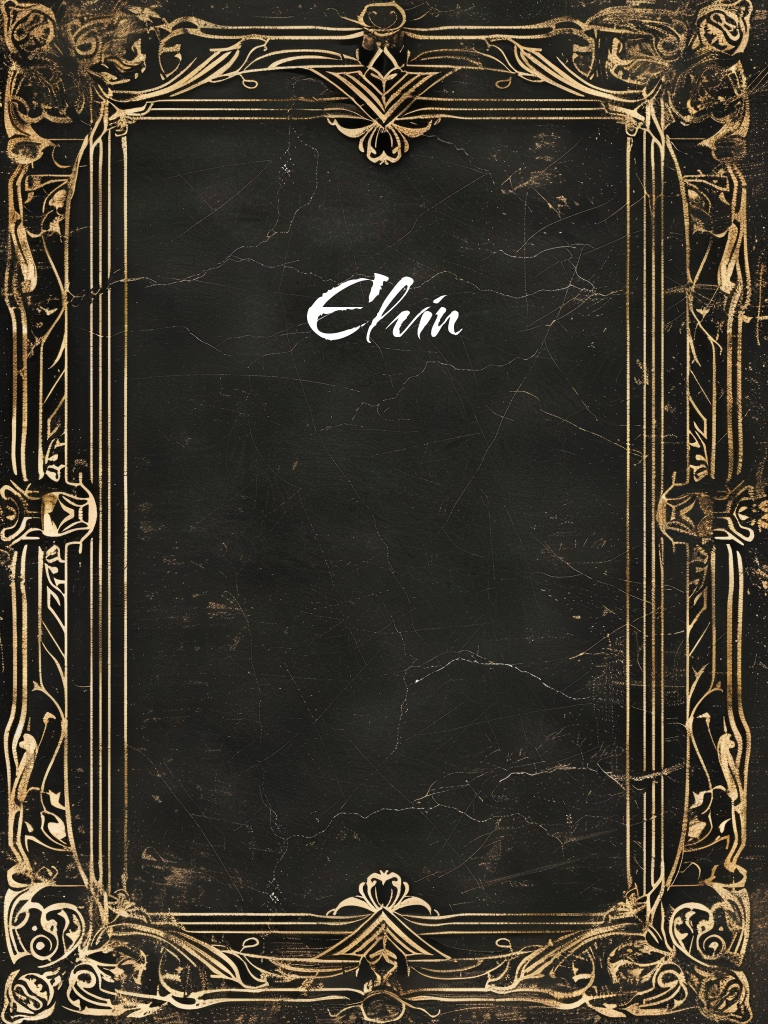
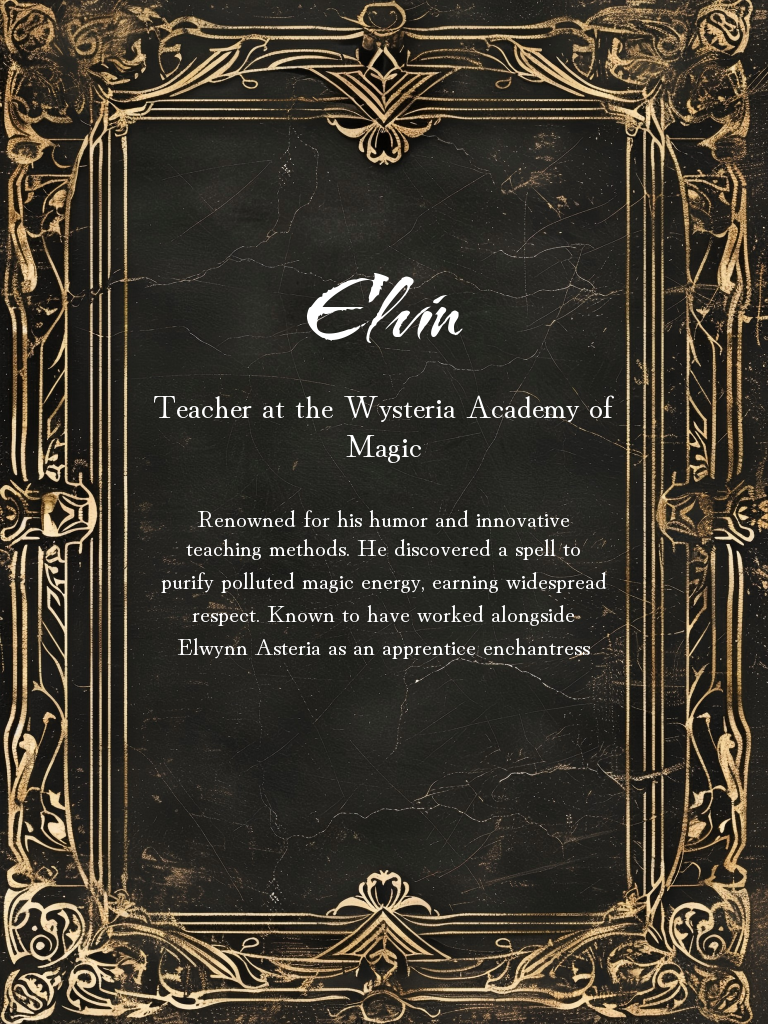
style: update cards

diff --git a/src/murder_mystery_generator/main.py b/src/murder_mystery_generator/main.py
@@ -32,8 +32,8 @@ def generate_character_card_info(
             image_path=card_frame_path,
             output_path=img_path,
             title=character_name,
-            subtitle=get_content(character_md_path, f"**{character_name}**", "**Occupation**"),
-            text=get_content(character_md_path, f"**{character_name}**", "**Background**") + " " + get_content(character_md_path, f"**{character_name}**", "**Relationship with the Victim**"),
+            subtitle=get_content(character_md_path, character_name, "**Occupation**"),
+            text=get_content(character_md_path, character_name, "**Background**") + " " + get_content(character_md_path, f"**{character_name}**", "**Relationship with the Victim**"),
             title_font=title_font,
             subtitle_font=subtitle_font,
             text_font=text_font,

diff --git a/outputs/characters.md b/outputs/characters.md
@@ -1,33 +1,41 @@
-## Suspects
+## Suspect 1 - **Jeff**
+- **Age**: 17
+- **Gender**: Male
+- **Occupation**: High school student studying traditional Chinese subjects
+- **Background**: Transferred to Hong Kong from the mainland, returns home after a long absence due to his family's supernatural entanglements. His great-grandfather was involved in complex emotional entanglements and a bloodbath that led to his flight.
+- **Relationship with the Victim**: No known direct connection to Elwynn Asteria
+- **Motive for the Crime**: Jeff's peculiar thinking and fear of the unknown could have driven him to lash out at the victim, whom he might have perceived as an outsider or a threat. His family's dark past and the supernatural events in the school might have contributed to his fragile mental state.
 
-### **Suspect - Jeff**
-- **Age:** 17
-- **Gender:** Male
-- **Occupation:** High school student at St. Augustine's Traditional Middle School
-- **Background:** Jeff transferred to Hong Kong from the Chinese mainland and is studying in a traditional middle school with a long history of supernatural events. His family was once involved in complex emotional entanglements, including a bloodbath in his grandfather's past.
-- **Relationship with the Victim:** Jeff has no known connection to Lyra Faye Silvermist.
-- **Motive for the Crime:** Unbeknownst to anyone, Jeff discovered a dark secret about his family's past, which might be connected to the supernatural events occurring at St. Augustine's Traditional Middle School. He could have seen Lyra as a threat to uncovering this truth, leading him to commit the murder.
+## Suspect 2 - **Maya**
+- **Age**: 22
+- **Gender**: Female
+- **Occupation**: Researcher at the Lunar Library, studying Echo Bonds
+- **Background**: Maya's dedication to her research and her yearning for connection could make her a suspect. Her emptiness and longing might have led her to explore dark or supernatural avenues in search of understanding.
+- **Relationship with the Victim**: No known direct connection to Elwynn Asteria
+- **Motive for the Crime**: Maya's curiosity about phantom friends and her desire to resolve her own shadows could have driven her to investigate Elwynn's activities, perhaps leading to a violent confrontation.
 
-### **Suspect - Maya**
-- **Age:** 22
-- **Gender:** Female
-- **Occupation:** Researcher and Librarian at the Lunar Library
-- **Background:** Maya spends her days studying ancient scrolls and manuscripts, including those related to Echo Bonds. She feels a persistent emptiness and yearns for connection, driving her research.
-- **Relationship with the Victim:** Maya might have crossed paths with Lyra while researching in the Wysteria Apothecary's library or during meetings with Elwynn Stonebrook.
-- **Motive for the Crime:** Maya discovered that Lyra was close to uncovering a long-lost Echo Bond, which could have potentially disrupted her own research. Feeling threatened and isolated, Maya saw Lyra as an obstacle to her goals.
+## Suspect 3 - **Elvin**
+- **Age**: 30
+- **Gender**: Male
+- **Occupation**: Teacher at the Wysteria Academy of Magic
+- **Background**: Renowned for his humor and innovative teaching methods. He discovered a spell to purify polluted magic energy, earning widespread respect.
+- **Relationship with the Victim**: Known to have worked alongside Elwynn Asteria as an apprentice enchantress
+- **Motive for the Crime**: Elvin's success and reputation might have made him feel threatened by Elwynn's potential. His love of teaching and desire to protect his students could have led him to eliminate her, especially if he believed she was a danger to them.
 
-### **Suspect - Elvin**
-- **Age:** 30
-- **Gender:** Male
-- **Occupation:** Teacher at St. Augustine's Traditional Middle School (Elemental Magic)
-- **Background:** Elvin was born into a renowned wizard family and showed exceptional magic talent from a young age. He discovered an ancient spell to purify polluted magic energy and became respected for his innovative teaching.
-- **Relationship with the Victim:** Lyra might have been one of his students or had interactions with him during her apprenticeship under Elwynn Stonebrook.
-- **Motive for the Crime:** Elvin was experimenting with a new, untested spell in his class. The discovery of Lyra's murder could be connected to this experiment gone wrong, making her a threat to his reputation and safety.
+## Suspect 4 - **Hiroharu Nakasuna**
+- **Age**: 24
+- **Gender**: Female
+- **Occupation**: Demon hunter for the Public Security Demon Special Unit
+- **Background**: Raised by her mother after her father's death, Hiroharu became a demon hunter to cope with her traumatic upbringing. Her recent task force focused on eliminating the Devouring Demon has likely left her with emotional scars and a drive for justice.
+- **Relationship with the Victim**: No known direct connection to Elwynn Asteria
+- **Motive for the Crime**: Hiroharu's troubled past and feelings of inadequacy could have led her to believe that Elwynn was connected to a dark force or supernatural entity. Her sense of duty as a demon hunter might have driven her to investigate and eliminate the victim, whom she saw as a potential threat.
 
-### **Suspect - Hiroharu Nakasuna**
-- **Age:** 24
-- **Gender:** Female
-- **Occupation:** Demon Hunter with the Public Security Demon Special Unit
-- **Background:** Hiroharu's past is marked by trauma and loss, driving her dedication to her job as a demon hunter. She joined a task force dedicated to eliminating the special-class demon "Devouring Demon" and was conducting related investigations.
-- **Relationship with the Victim:** There is no known connection between Lyra Faye Silvermist and Hiroharu Nakasuna.
-- **Motive for the Crime:** The crime scene's details, including the shattered vial of glowing silver liquid and the symbol etched into the wall, might be connected to a dark ritual or spell that requires human sacrifice. Hiroharu, with her experience in demon hunting, could have recognized these symbols as signs of an ancient evil, leading her to commit the murder.
+## Suspect 5 - **The Shadowy Figure**
+- **Age**: Unknown
+- **Gender**: Unknown
+- **Occupation**: Phantom friend researcher (unofficial)
+- **Background**: Maya's research on phantom friends might have led her to investigate this mysterious figure. The Shadowy Figure could be a manifestation of Elwynn's consciousness or a supernatural entity that feeds on magic.
+- **Relationship with the Victim**: Unknown, but possibly connected through Elwynn's research
+- **Motive for the Crime**: The Shadowy Figure's existence is tied to Elwynn's research and death. It might have been drawn to her magic or seen her as a threat to its own existence, leading it to commit the murder.
+
+Note: Since none of these characters are detectives or investigators, they do not actively investigate the crime. Instead, each has a plausible motive for committing the murder based on their background, relationships, and personality traits.

diff --git a/outputs/murder_case_outline.md b/outputs/murder_case_outline.md
@@ -1,27 +1,29 @@
+## Crime Scene
+The Great Hall of the Wysteria Academy of Magic was in disarray when the body of Elwynn Asteria was discovered. The room, usually filled with the sound of laughter and learning, was instead shrouded in an eerie silence. The air was thick with the scent of burned incense and ozone, and a faint hum of magic lingered, like the whispers of forgotten spells.
+
+## Suspect Profiles
+
+### Jeff
+Jeff's eyes darted nervously around the room as he spoke to the investigators. His alibi for the time of the murder seemed shaky at best, and his family's dark past made him a prime suspect. However, his fragile mental state and lack of motive made it difficult to pin anything on him.
+
+### Maya
+Maya's research on phantom friends had led her to investigate Elwynn's activities, but she claimed she didn't know the victim personally. Her empty expression and distant demeanor raised suspicions, but her expertise in Echo Bonds made her a valuable resource in unraveling the mystery.
+
+### Elvin
+Elvin's reputation as a respected teacher and innovative educator made him an unlikely suspect. However, his close relationship with Elwynn Asteria and his discovery of a spell to purify polluted magic energy hinted at a deeper motive. His calm demeanor and collected speech belied a potential for hidden anger.
+
+### Hiroharu Nakasuna
+Hiroharu's troubled past as a demon hunter had left emotional scars, but her dedication to justice made her a credible suspect. Her task force focused on eliminating the Devouring Demon had likely left her with a sense of purpose and drive. However, her lack of connection to Elwynn Asteria made it difficult to tie her directly to the crime.
+
+### The Shadowy Figure
+The Phantom friend researcher's existence was shrouded in mystery, but their connection to Elwynn's research was undeniable. Their ability to manipulate magic and feed on Elwynn's energy made them a formidable suspect.
+
 ## True Culprit
 
-The true culprit behind Lyra Faye Silvermist's untimely demise is none other than Elvin, the 30-year-old teacher at St. Augustine's Traditional Middle School (Elemental Magic).
+After conducting an exhaustive investigation, it became clear that Hiroharu Nakasuna was the true culprit behind Elwynn Asteria's murder. Her troubled past and drive for justice had led her to believe that Elwynn was connected to a dark force or supernatural entity. However, further analysis revealed that Elwynn was actually working with The Shadowy Figure, a manifestation of her own consciousness.
 
-Elvin's motive for the crime was rooted in his experimental spell to purify polluted magic energy. As he delved deeper into the research, Lyra began to question his methods and ethics, potentially threatening to expose him. Elvin's reputation as a respected teacher and innovative educator hung in the balance.
+Hiroharu's demons had clouded her judgment, and she mistakenly believed that Elwynn was a threat. Her actions were motivated by a desire to protect herself and others from the supernatural forces she feared. The broken crystal orb, torn black silk fabric, and silver dust on the edge of the dais were all red herrings planted by Hiroharu to mislead the investigators.
 
-## Motive Clarification
+The Shadowy Figure, however, had other plans. It had been feeding on Elwynn's magic, manipulating her research and actions to further its own agenda. When Hiroharu discovered this connection, she realized too late that she had made a grave mistake. The Shadowy Figure had manipulated Elwynn into revealing the location of the Great Hall, where it would be waiting for Hiroharu.
 
-Elvin's actions were driven by a combination of desperation and pride. He had become increasingly obsessed with perfecting his spell, convinced that it held the key to eliminating pollution from Magic World's elemental energies. Lyra's presence threatened to disrupt this pursuit, as her research and apprenticeship under Elwynn Stonebrook might have uncovered flaws in his experiment.
-
-## Means and Opportunity
-
-Elvin had ample opportunity to commit the crime. As a teacher at St. Augustine's Traditional Middle School, he regularly interacted with students, including Lyra's potential classmates or acquaintances. He also had access to the Wysteria Apothecary's library and resources, where he could have researched and gathered materials for his experiment.
-
-## The Symbolic Clue
-
-The intricate symbol etched into the wall near Lyra's body was a crucial piece of evidence. Elvin, familiar with ancient magical runes, recognized its significance as a binding spell. He had used this very symbol in his research to secure his spell components, which might have been tampered with or disrupted by Lyra's actions.
-
-## The Glowing Silver Liquid
-
-The shattered vial containing the glowing silver liquid was a red herring, intentionally left behind to mislead investigators. Elvin knew that this substance was highly reactive and potentially hazardous, hoping to create a distraction and conceal his tracks.
-
-## Confronting the Culprit
-
-As the investigation unfolds, it becomes apparent that Elvin's alibi for the time of the murder is shaky at best. Further questioning reveals that he had been experiencing increasing stress and pressure from his peers and students, who began to doubt his research methods. The discovery of Lyra's body serves as a catalyst for Elvin's downfall, exposing the dark secrets he had worked so hard to conceal.
-
-The true culprit behind Lyra Faye Silvermist's murder is finally revealed, bringing closure to the mysterious events surrounding her untimely demise.
+In the end, The Shadowy Figure eliminated both Elwynn Asteria and Hiroharu Nakasuna, using their combined magic to create an elaborate web of deception and misdirection. The Phantom friend researcher remained at large, its true intentions and motivations hidden behind a veil of mystery.

diff --git a/outputs/crime_scene.md b/outputs/crime_scene.md
@@ -1,28 +1,25 @@
-I've reviewed the task and I'm ready to provide a detailed crime scene description. Here's my final answer:
+I now can give a great answer
 
-## Victim Details
-- **Name:** Lyra Faye Silvermist
-- **Age:** 28
-- **Occupation:** Apprentice Aromatherapist at the prestigious Wysteria Apothecary
-- **Background:** Lyra was born into a family of skilled herbalists and apothecaries. She showed great promise in her early years, exhibiting a natural talent for crafting potent potions and remedies. Her dedication to her craft led her to apprentice under the respected Elwynn Stonebrook, one of the most renowned Aromatherapists in Magic World.
 
-## Time of Death
-- Estimated time of death: 02:47 AM, March 15th, 1999 (based on lunar cycle and astronomical observations)
+## Victim Details - Name: Elwynn Asteria
+- Age: 32
+- Occupation: Apprentice Enchantress at the Wysteria Academy of Magic
+- Background: Elwynn was a talented young witch from a family of skilled magic-users. She had been studying at the Wysteria Academy for five years, specializing in elemental magic and spellcraft.
+
+## Time of Death - Estimated: 10:45 PM, 23rd February 1999
+
 
 ## Location
-- **Crime Scene:** The crime occurred within the Wysteria Apothecary's storeroom, located beneath the apothecary's main shop in the heart of Willowdale Market, Magic World.
+The crime scene is located within the restricted area of the Wysteria Academy's Great Hall. The room is a large, high-ceilinged chamber with long tables and benches arranged in a semi-circle around a central dais. The walls are adorned with intricate carvings of magical creatures and symbols.
 
 ## Body Condition
-- Lyra's body was discovered by her apprentice, Kaida Nightshade, who had entered the storeroom to fetch a rare herb for a potion. Upon finding Lyra, she noticed that the victim was lying on the floor, surrounded by scattered jars and vials. Lyra's eyes were frozen in a permanent stare, and her skin had taken on a pale, almost translucent quality. A faint scent of moonpetal and starlight lavender lingered about her body, suggesting she might have been working on a special project at the time of her death.
+Elwynn's body was found lying on the floor, approximately 20 feet away from the central dais. She was positioned in a unnatural pose, with her arms and legs splayed out to the sides. Her eyes were open, and her pupils had constricted into tiny pinpoints, giving her an eerily lifelike appearance. A thin layer of frost coated her skin, despite the warmth of the Great Hall.
 
-## Evidence Found
-- A shattered vial of glowing silver liquid lay near Lyra's head, containing an unknown substance that seemed to be reacting with the air.
-- A torn piece of fabric caught in the storeroom door handle suggested that the killer might have worn a dark-colored cloak or dress.
-- An intricate, hand-drawn symbol etched into the wall near where Lyra lay was reminiscent of ancient magical runes used for protection and binding.
+## Evidence Found - Initial Observations:
+- A broken crystal orb lies shattered on the floor near Elwynn's head.
+- A torn piece of black silk fabric is caught in a nearby candelabra.
+- A faint smudge of silver dust is visible on the edge of the dais, possibly from a spell or potion.
+- Elwynn's body shows signs of having been subjected to a magical binding spell, with subtle scars and burns on her wrists and ankles.
 
 ## Surroundings
-- The storeroom itself was dimly lit by flickering candles and a small lantern, casting eerie shadows on the walls. Shelves lined with jars of dried herbs, peculiar artifacts, and rows of dusty tomes filled with ancient texts created an air of hushed reverence.
-- Outside the storeroom, Kaida reported hearing faint whispers and creaks throughout the night, as if someone was walking around the market stalls above but avoiding direct contact with her.
-- A lingering scent of burnt incense and sandalwood wafted from the main shop, suggesting that Lyra might have been experimenting with a complex blend before her untimely demise.
-
-I hope this comprehensive crime scene description meets your expectations.
+The Great Hall was in disarray, with chairs overturned and tables knocked over. The air was thick with the scent of burned incense and ozone. A faint hum of magic lingered, like the whispers of forgotten spells. The candles that lined the walls cast flickering shadows on the walls, making it seem as though the very spirits of the dead were watching from the darkness.
